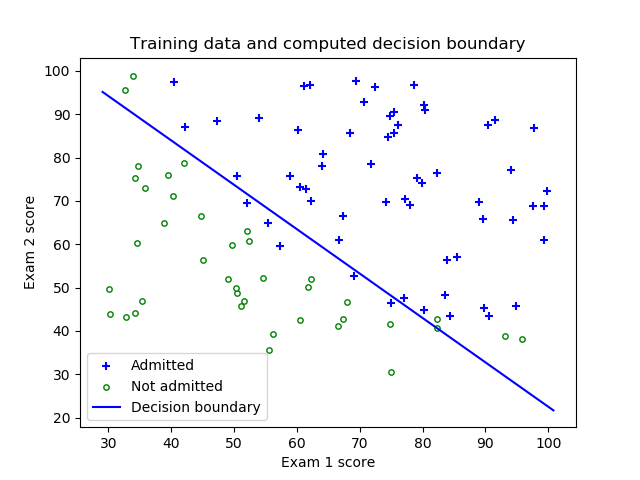
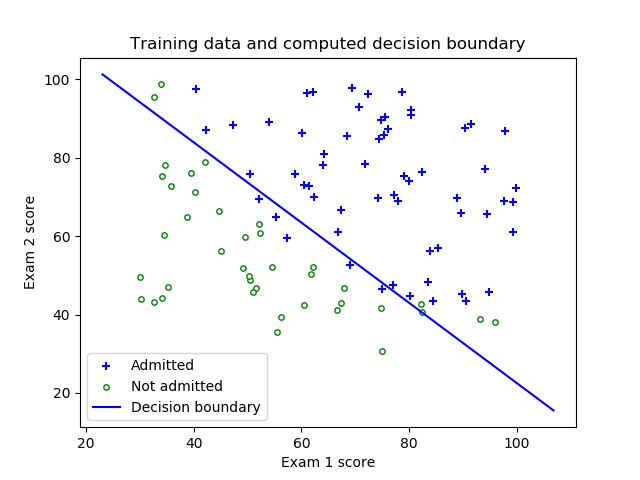
ex2: plotDecisionBoundary plotting range now automatic

diff --git a/ex2/ex2.py b/ex2/ex2.py
@@ -31,24 +31,29 @@ def plotData(X, y, label1=None, label2=None):
             edgecolor="g", s=15)
 
 
-def plotDecisionBoundary(X, y, theta, color="blue", alpha=None,
-                         label="Decision boundary"):
-    #axis = plt.axis()
+def plotDecisionBoundary(X, y, theta, color="blue", label="Decision boundary"):
+    X1_min = np.min(X[:,0])
+    X1_max = np.max(X[:,0])
+    X1_margin = (X1_max - X1_min) * 0.1
+    X2_min = np.min(X[:,1])
+    X2_max = np.max(X[:,1])
+    X2_margin = (X2_max - X2_min) * 0.1
     if theta.shape[0] == 3:
-        plot_x = np.array([np.min(X[:,0])-1, np.max(X[:,0])+1])
+        #plot_x = np.array([np.min(X[:,0])-1, np.max(X[:,0])+1])
+        plot_x = np.array([X1_min-X1_margin, X1_max+X1_margin])
         plot_y = (-1) / theta[2,0] * (theta[1,0] * plot_x + theta[0,0])
-        #plt.axis(axis)
         return plt.plot(plot_x, plot_y, color=color, label=label)
     elif theta.shape[0] > 3:
         degree = get_mapFeature_degree(theta.size)
-        u = np.linspace(-1, 1.5, 51)
-        v = u.copy()
+        #u = np.linspace(-1, 1.5, 51)
+        u = np.linspace(X1_min-X1_margin, X1_max+X1_margin, 51)
+        v = np.linspace(X2_min-X2_margin, X2_max+X2_margin, 51)
         z = np.empty((u.size, v.size))
-        for i in range(u.size):
-            for j in range(v.size):
-                z[i,j] = dot(mapFeature(u[i], v[j], degree), theta)
+        for i, ui in enumerate(u):
+            for j, vj in enumerate(v):
+                z[i,j] = dot(mapFeature(ui, vj, degree=degree), theta)
         z = z.T
-        return plt.contour(u, v, z, [0], colors=color, alpha=alpha, label=label)
+        return plt.contour(u, v, z, [0], colors=color, alpha=0.5, label=label)
 
 
 def add_intercept_column(X):
@@ -226,7 +231,7 @@ if __name__ == "__main__":
     #print("Plotting decision boundary...")
     plt.figure()
     plotData(X1, y1, label1="Admitted", label2="Not admitted")
-    plotDecisionBoundary(X1, y1, theta_min1, label="Decision boundary")
+    plotDecisionBoundary(X1, y1, theta_min1)
     plt.xlabel("Exam 1 score")
     plt.ylabel("Exam 2 score")
     legend_handles, _ = plt.gca().get_legend_handles_labels()
@@ -313,7 +318,7 @@ if __name__ == "__main__":
             precision,
             "" if lambda_ != 1 else " (expected approx. 83.1%)"
             ))
-        plotDecisionBoundary(X2, y2, theta, color=color, alpha=0.5)
+        plotDecisionBoundary(X2, y2, theta, color=color)
         legend_handles.append(matplotlib.lines.Line2D([], [], color=color,
             alpha=0.5,
             label="$\\lambda = {}$ (accur. {:.0%})".format(lambda_, precision)))
